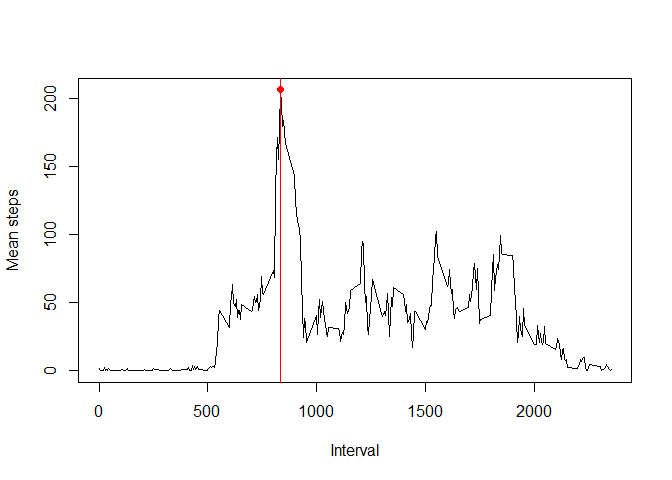
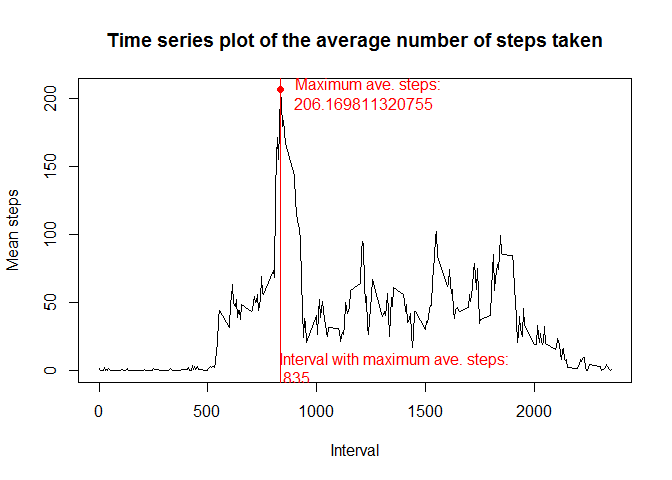
better labeling of time series graph

Changed region(s): [[0.1562, 0.0625, 0.9062, 0.125], [0.4062, 0.7188, 0.75, 0.8125], [0.4375, 0.1562, 0.6562, 0.25]]

diff --git a/PA1_template.html b/PA1_template.html
@@ -82,8 +82,8 @@ cat(&quot;Mean daily steps (ignoring NAs): &quot;, mean(daily_steps))</code></pr
 ##  4472 12787 20427 21194 14478 11834 11162 13646 10183 7047  (first and last 10 records)</code></pre>
 <div id="histogram-of-steps-per-day" class="section level3">
 <h3>2.2 Histogram of steps per day:</h3>
-<pre class="r"><code>hist(daily_steps, xlab = &quot;Daily Steps&quot;, col = &quot;red&quot;)</code></pre>
[1 lines of base64/hex data omitted]
+<pre class="r"><code>hist(daily_steps, xlab = &quot;Daily Steps&quot;, col = &quot;red&quot;, main = &quot;Histogram of Daily Steps&quot;)</code></pre>
[1 lines of base64/hex data omitted]
 <pre class="r"><code>mean_daily_steps &lt;- mean(daily_steps)
 median_daily_steps &lt;- median(daily_steps)
 cat(&quot;Mean Daily Steps: &quot;, mean_daily_steps, &quot;\n&quot;)</code></pre>
@@ -105,10 +105,16 @@ max_mean_steps &lt;- as.data.frame(interval_steps[interval_steps == max(interval
 max_mean_x = row.names(max_mean_steps) 
 max_mean_y = max_mean_steps[[1]]
 
-plot(x = row.names(interval_steps), y = interval_steps, xlab = &quot;Interval&quot;, ylab = &quot;Mean steps&quot;, type = &quot;l&quot;)
+plot(x = row.names(interval_steps), y = interval_steps, xlab = &quot;Interval&quot;, ylab = &quot;Mean steps&quot;, type = &quot;l&quot;, main = &quot;Time series plot of the average number of steps taken&quot;)
 points(x = max_mean_x, y = max_mean_y, pch = 19, col = &quot;red&quot;)
-abline(v = max_mean_x, col = &quot;red&quot;)</code></pre>
[1 lines of base64/hex data omitted]
+abline(v = max_mean_x, col = &quot;red&quot;)
+
+text(max_mean_x, max_mean_y, labels = max_mean_y, adj = c(-.1,1.5), col = &quot;red&quot;)
+text(max_mean_x, max_mean_y, labels = &quot;Maximum ave. steps: &quot;, adj = c(-.1,0), col = &quot;red&quot;)
+
+text(max_mean_x, 0, labels = max_mean_x, adj = c(-.1,1), col = &quot;red&quot;)
+text(max_mean_x, 0, labels = &quot;Interval with maximum ave. steps: &quot;, adj = c(0,-.5), col = &quot;red&quot;)</code></pre>
[1 lines of base64/hex data omitted]
 <pre class="r"><code>cat(&quot;The interval with highest mean: &quot;, max_mean_x)</code></pre>
 <pre><code>## The interval with highest mean:  835</code></pre>
 <pre class="r"><code>cat(&quot;\n Highest mean: &quot;, max_mean_y)</code></pre>

diff --git a/PA1_template.md b/PA1_template.md
@@ -35,7 +35,7 @@ cat("2.1 Total number of steps per day: \n", head(daily_steps, 10), " ... \n", t
 ### 2.2 Histogram of steps per day:
 
 ```r
-hist(daily_steps, xlab = "Daily Steps", col = "red")
+hist(daily_steps, xlab = "Daily Steps", col = "red", main = "Histogram of Daily Steps")
 ```
 
 ![](PA1_template_files/figure-html/unnamed-chunk-4-1.png) 
@@ -70,9 +70,15 @@ max_mean_steps <- as.data.frame(interval_steps[interval_steps == max(interval_st
 max_mean_x = row.names(max_mean_steps) 
 max_mean_y = max_mean_steps[[1]]
 
-plot(x = row.names(interval_steps), y = interval_steps, xlab = "Interval", ylab = "Mean steps", type = "l")
+plot(x = row.names(interval_steps), y = interval_steps, xlab = "Interval", ylab = "Mean steps", type = "l", main = "Time series plot of the average number of steps taken")
 points(x = max_mean_x, y = max_mean_y, pch = 19, col = "red")
 abline(v = max_mean_x, col = "red")
+
+text(max_mean_x, max_mean_y, labels = max_mean_y, adj = c(-.1,1.5), col = "red")
+text(max_mean_x, max_mean_y, labels = "Maximum ave. steps: ", adj = c(-.1,0), col = "red")
+
+text(max_mean_x, 0, labels = max_mean_x, adj = c(-.1,1), col = "red")
+text(max_mean_x, 0, labels = "Interval with maximum ave. steps: ", adj = c(0,-.5), col = "red")
 ```
 
 ![](PA1_template_files/figure-html/unnamed-chunk-5-1.png) 
